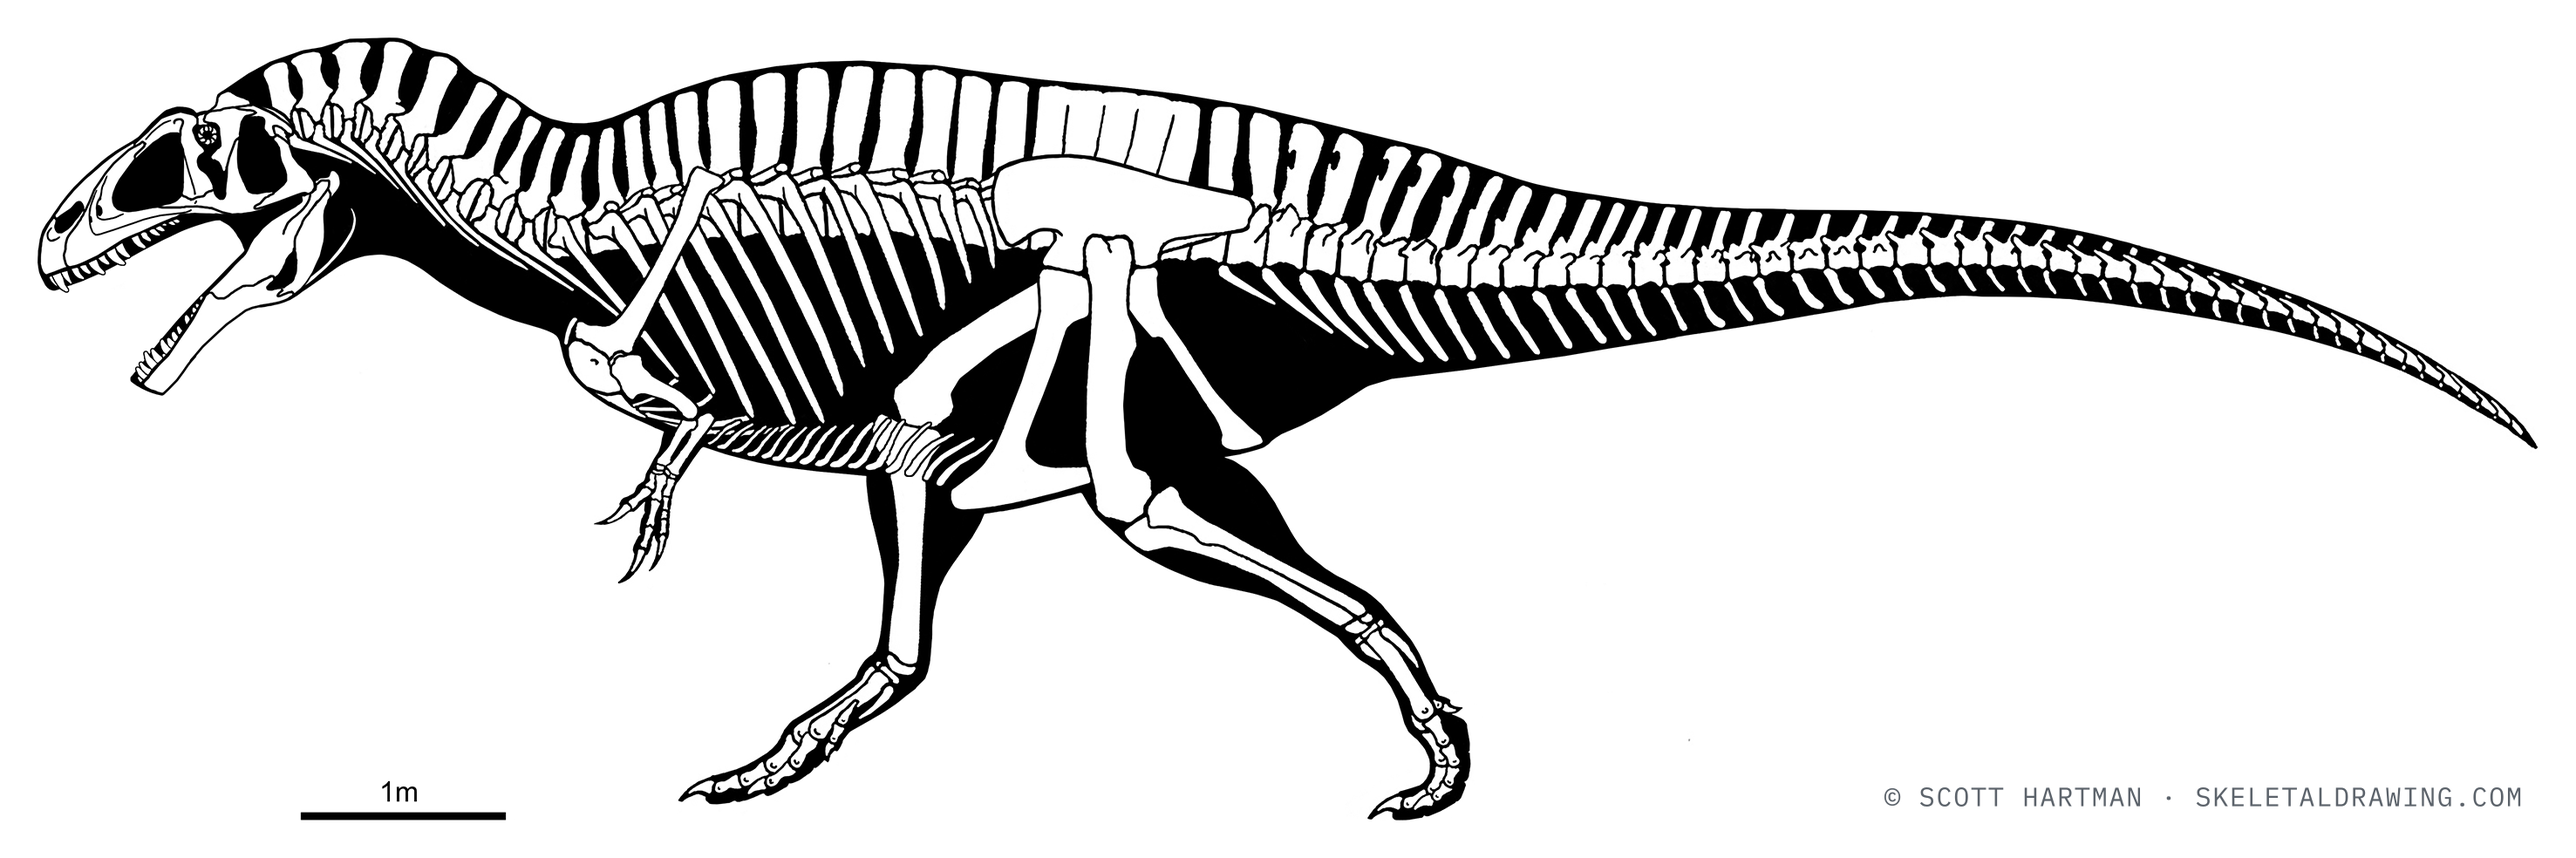
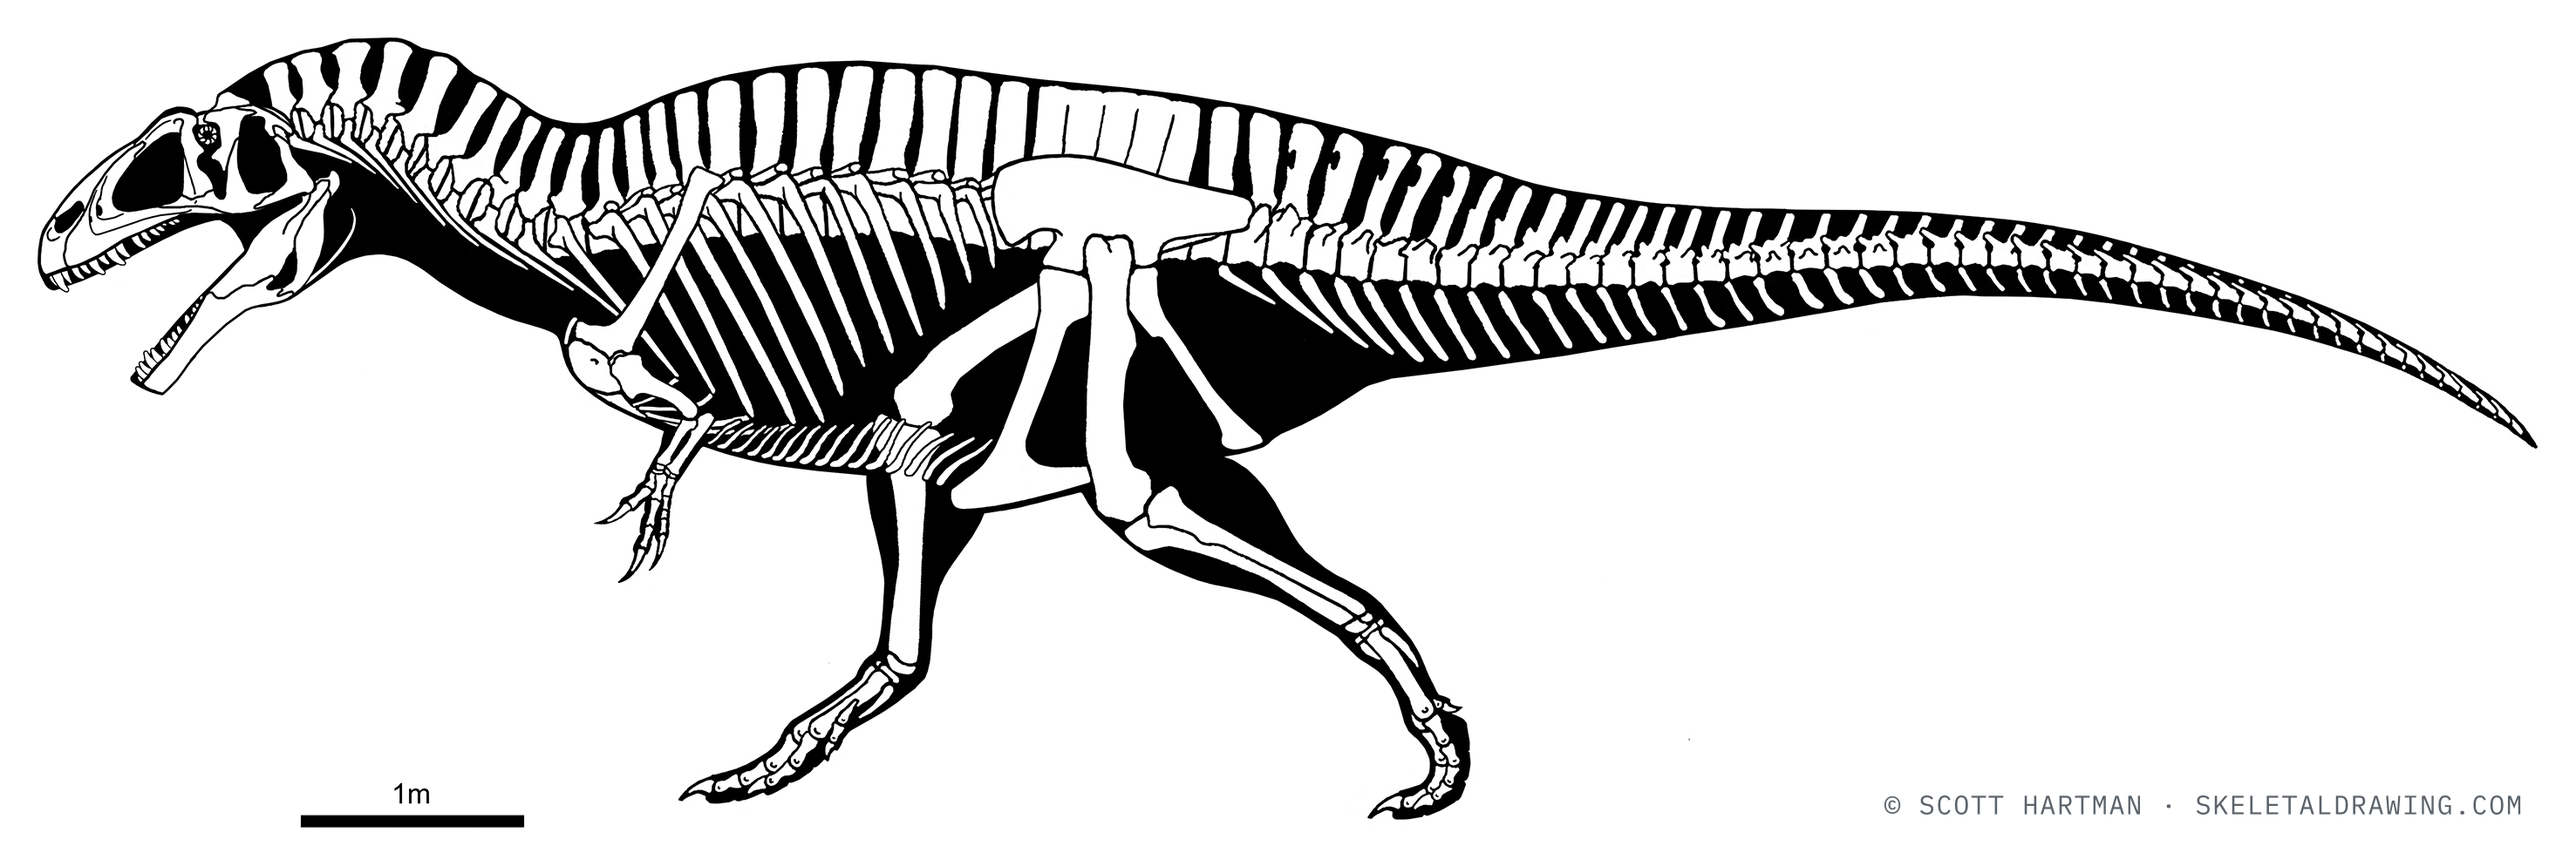
Acrocanthosaurus: corrected scale bar, length 12.5 -> 11.5 m
New plate from the owner with the scale bar drawn at the correct size. Run
through `npm run credit` (auto-crop to the standard margin + baked-in credit
per CLAUDE.md §3) — the raw export was greyscale, uncropped and uncredited,
so a straight CMS upload would have published an unmarked, differently-framed
figure.

Because the bar changed and the animal did not, the figure's implied length
changed with it: measured bbox against the bar goes 12.20 m -> 11.20 m. Owner
gives 11.5 m along the body and 11.3 m horizontal extent. lengthM and the alt
text follow; widthM is now set explicitly rather than falling back to lengthM,
which also corrects this taxon's scaling in the /compare/ overlay.

Body prose still says "12 meters (40 feet)" — left alone pending the owner's
call, since it's a claim about the genus rather than about this figure.

diff --git a/src/content/taxa/acrocanthosaurus-atokensis.md b/src/content/taxa/acrocanthosaurus-atokensis.md
@@ -7,7 +7,8 @@ clade:
 family: ''
 specimenId: ''
 specimenName: ''
-lengthM: 12.5
+lengthM: 11.5
+widthM: 11.3
 lengthLabel: ''
 massKg: null
 massSource: ''
@@ -18,7 +19,7 @@ scaleBar: ''
 drawingCredit: ''
 reconstruction:
   src: /images/skeletals/acrocanthosaurus-atokensis-skeletal.png
-  alt: Acrocanthosaurus atokensis skeletal reconstruction, left lateral view, reconstructed length ~12.5 m.
+  alt: Acrocanthosaurus atokensis skeletal reconstruction, left lateral view, reconstructed length ~11.5 m.
 added: 2026-06-30T12:02:00.000Z
 ---
 
